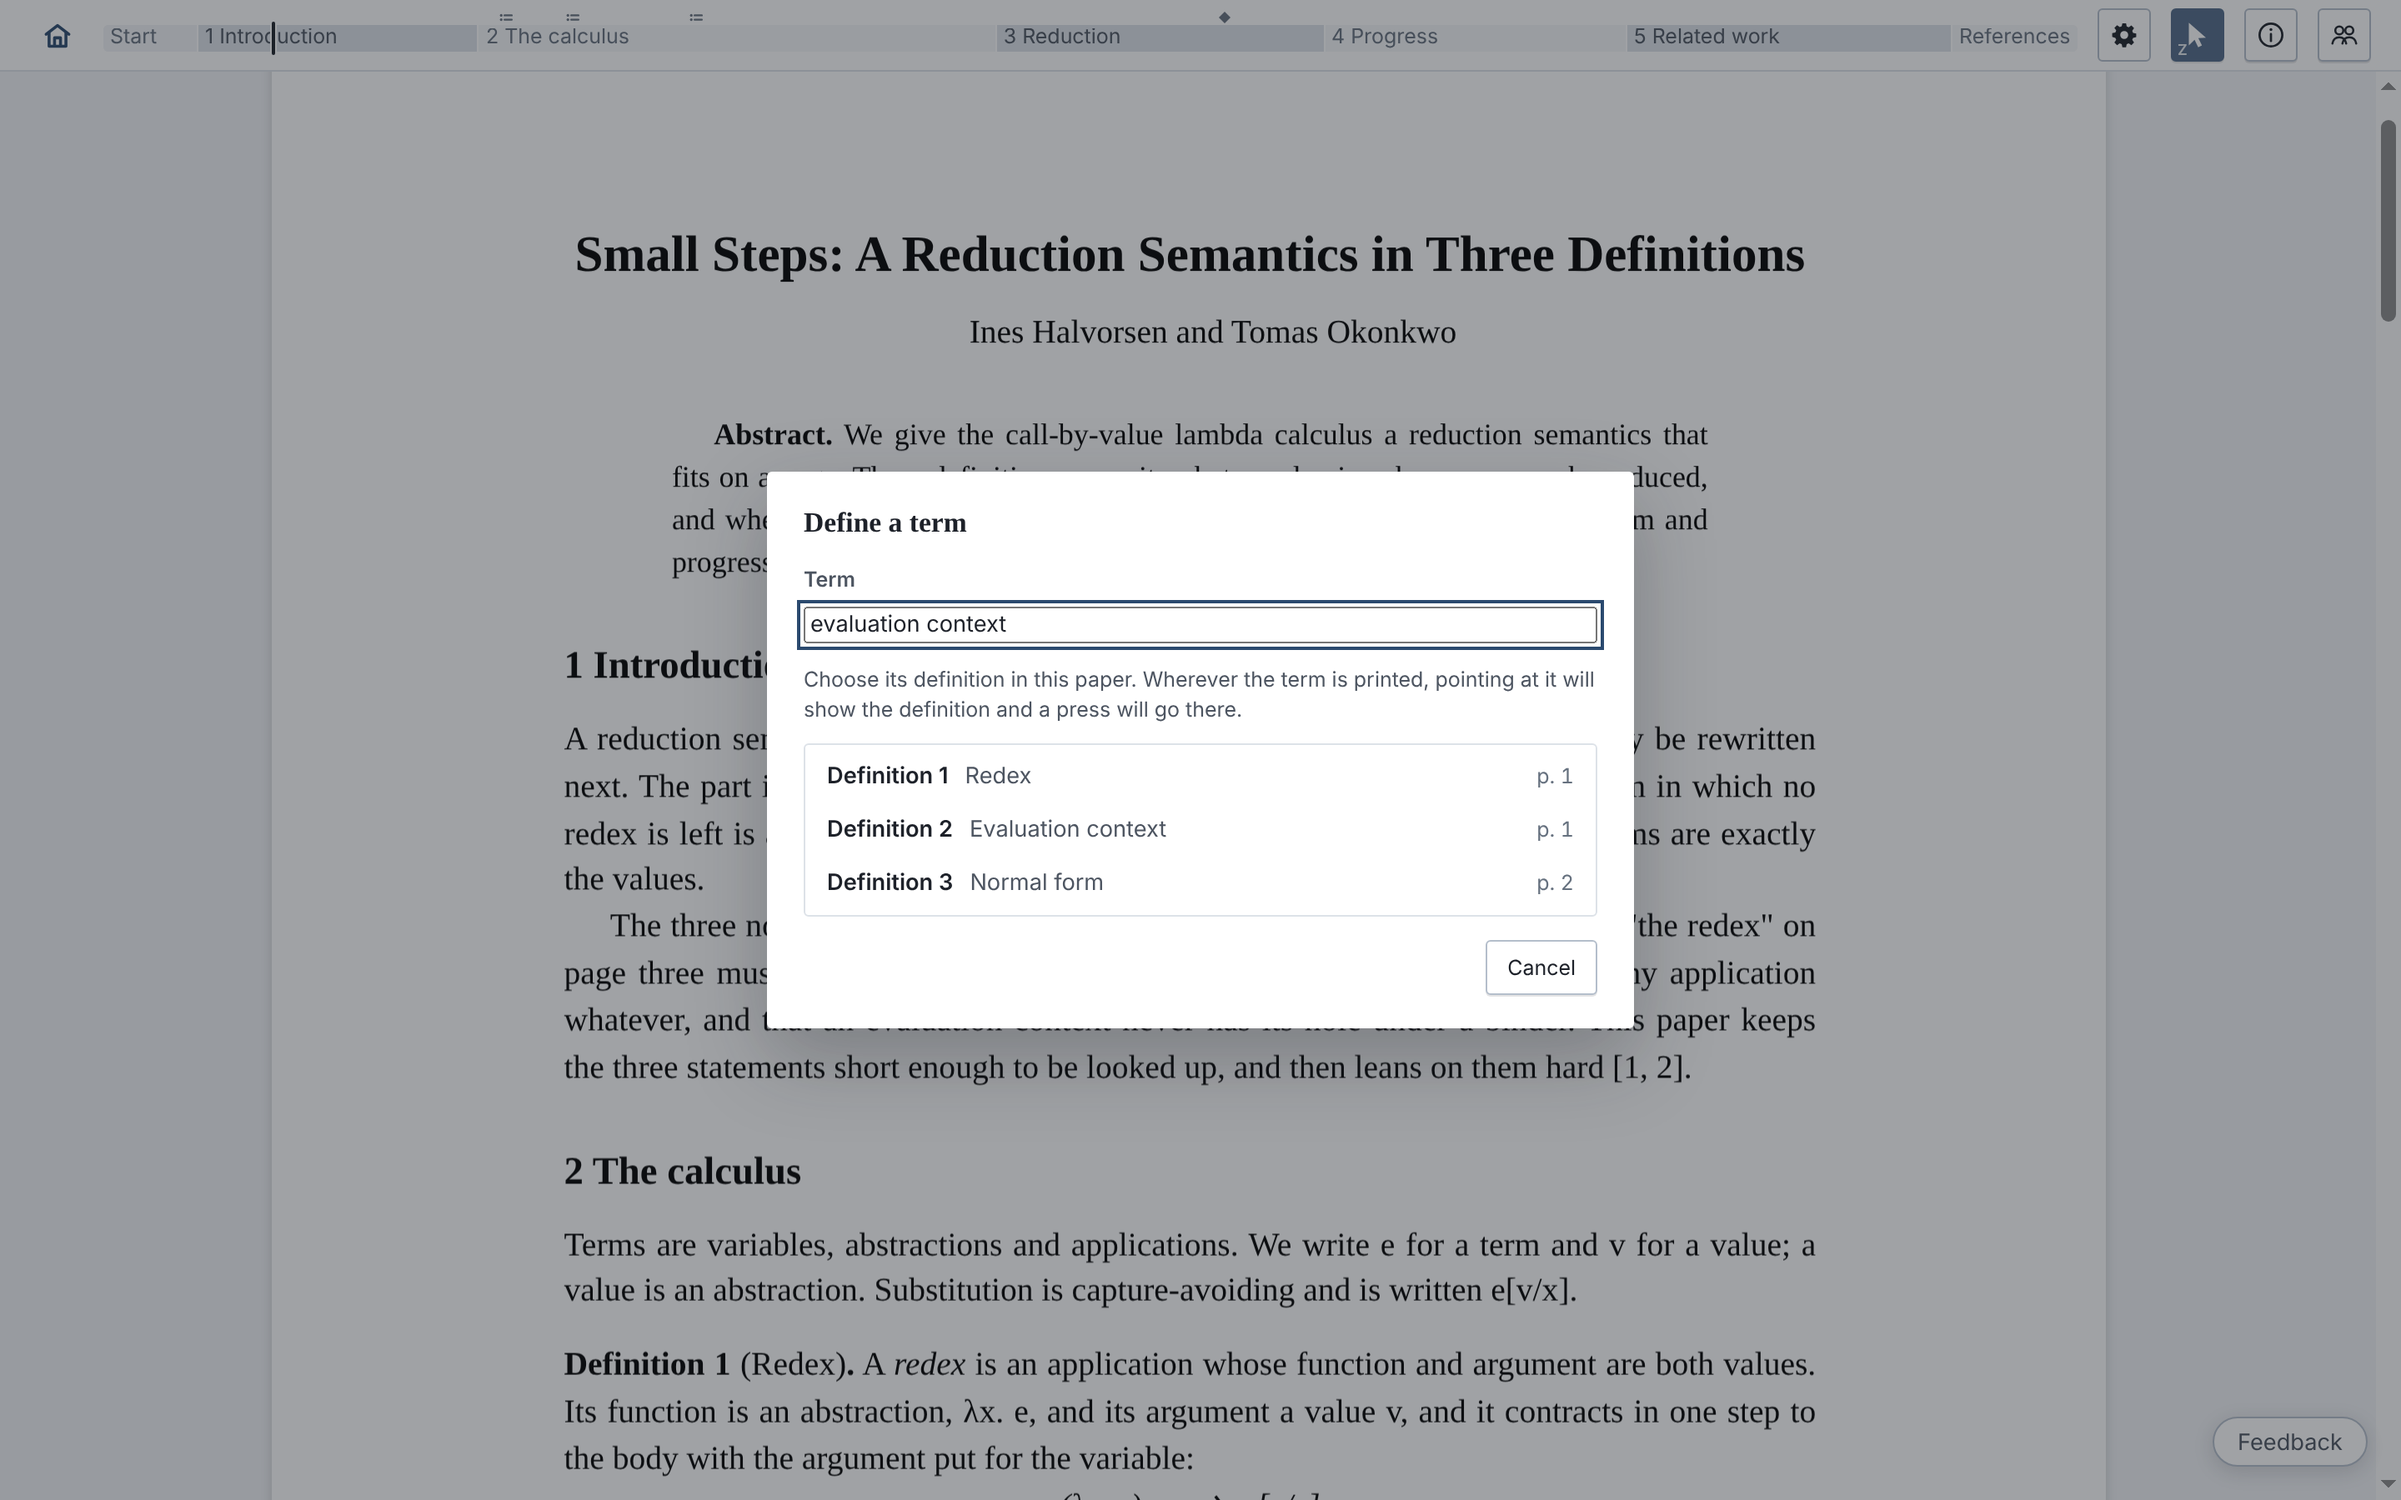
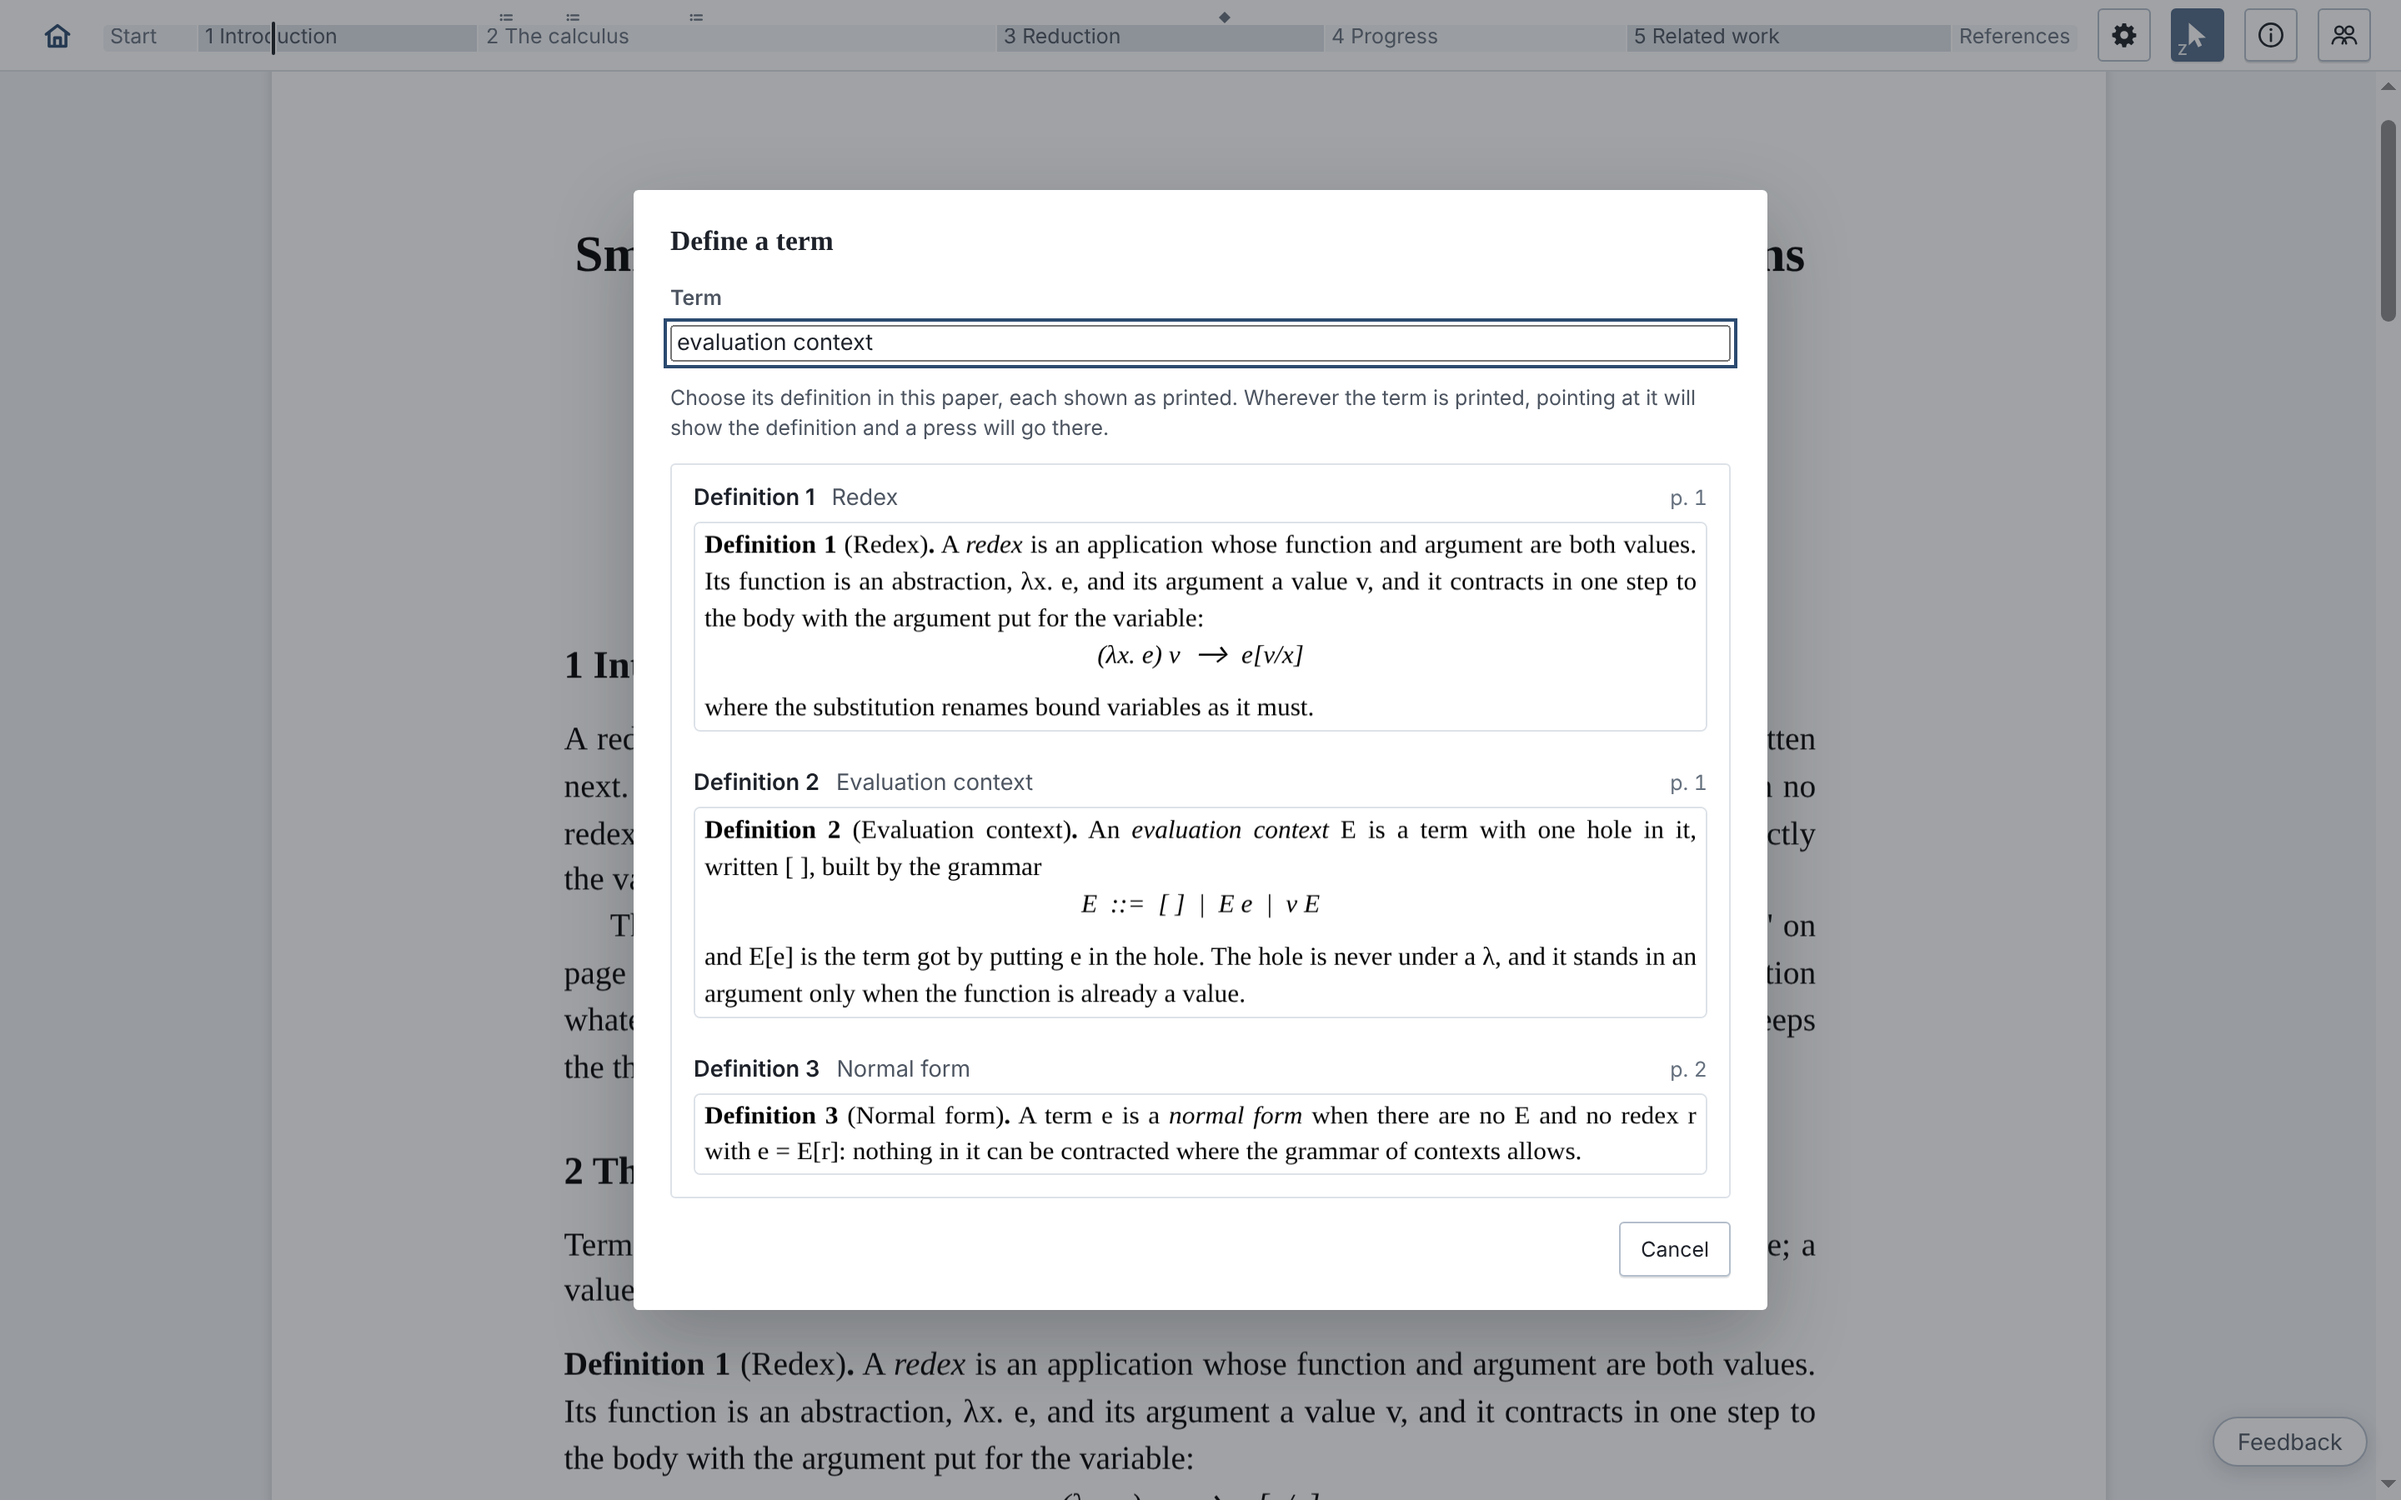
Define is a sign alone on the bar, and the chooser shows each definition as printed
The Define button on the selected-text bar is its sign, as its neighbours
are. The sheet that asks which definition a term's is draws each one, cut
from its page, under its name, so the reader reads it before choosing.

Claude-Session: https://claude.ai/code/session_01PQZzMS58jHomUHnndK5m6T

Changed region(s): [[0.25, 0.1244, 0.75, 0.9022]]

diff --git a/viewer/src/App.jsx b/viewer/src/App.jsx
@@ -56,6 +56,7 @@ import { citationOccurrences, placeAmong, readNamedReference, stillToLookUp } fr
 import { fitsFloat, floatScroll, floatZoom, sectionScroll, sectionZoom } from './floatView.js';
 import { telescopeFrame } from './telescope.js';
 import { definableTerm, definitionsIn, termKey, termSpot } from './definedTerms.js';
+import DefinitionPicture from './DefinitionPicture.jsx';
 import { ToolGlyph } from './glyphs';
 import { copySelectionSnapshot } from './selectionCopy.js';
 import { citationAt, superscriptCitationIndexes } from './citationText.js';
@@ -5348,8 +5349,7 @@ export default function App() {
                       : definableTerm(selectionPaint.text)
                         ? 'Define: choose this term’s definition in the paper'
                         : 'Select a word or a short phrase to define it',
-                    icon: <><ActionGlyph name="define" /><span>Define</span></>,
-                    className: 'worded',
+                    icon: <ActionGlyph name="define" />,
                     disabled: !definableTerm(selectionPaint.text),
                     onSelect: openDefine,
                   }] : []),
@@ -5452,7 +5452,7 @@ export default function App() {
               </label>
               {definitions.length ? (
                 <>
-                  <p className="define-ask" id="define-ask">Choose its definition in this paper. Wherever the term is printed, pointing at it will show the definition and a press will go there.</p>
+                  <p className="define-ask" id="define-ask">Choose its definition in this paper, each shown as printed. Wherever the term is printed, pointing at it will show the definition and a press will go there.</p>
                   <ul className="define-list" aria-labelledby="define-ask">
                     {definitions.map((definition) => (
                       <li key={definition.uuid}>
@@ -5462,9 +5462,13 @@ export default function App() {
                           disabled={defining.busy || !definableTerm(defining.term)}
                           onClick={() => defineTerm(definition)}
                         >
-                          <strong>{definition.label}</strong>
-                          <span className="define-about">{definition.title || ''}</span>
-                          <span className="define-page">p. {definition.page}</span>
+                          <span className="define-head">
+                            <strong>{definition.label}</strong>
+                            <span className="define-about">{definition.title || ''}</span>
+                            <span className="define-page">p. {definition.page}</span>
+                          </span>
+                          {/* The definition as printed, to read before choosing. */}
+                          <DefinitionPicture doc={doc} page={definition.page} box={definition.box} />
                         </button>
                       </li>
                     ))}

diff --git a/viewer/src/styles.js b/viewer/src/styles.js
@@ -1755,7 +1755,7 @@ body:has(.pages.with-margin) .feedback-button { right: auto; left: 20px; }
 
 /* Define: the selected words, and the paper's definitions to choose
    theirs from, each a row with its name, what it is about and its page. */
-.define-sheet { width: min(520px, 100%); }
+.define-sheet { width: min(680px, 100%); }
 .define-sheet .send-selection-field input { width: 100%; font-size: var(--fs-sm); }
 .define-ask {
   margin: 0 0 10px;
@@ -1765,8 +1765,8 @@ body:has(.pages.with-margin) .feedback-button { right: auto; left: 20px; }
 .define-list {
   display: flex;
   flex-direction: column;
-  gap: 2px;
-  max-height: min(46vh, 360px);
+  gap: 6px;
+  max-height: min(56vh, 520px);
   margin: 0 0 14px;
   padding: 4px;
   overflow-y: auto;
@@ -1777,11 +1777,12 @@ body:has(.pages.with-margin) .feedback-button { right: auto; left: 20px; }
 .sheet .define-choice,
 .sheet .define-choice:hover:not(:disabled) {
   display: flex;
-  align-items: baseline;
-  gap: 10px;
+  flex-direction: column;
+  align-items: stretch;
+  gap: 6px;
   width: 100%;
   min-height: 0;
-  padding: 7px 9px;
+  padding: 8px 9px 9px;
   border: 0;
   border-radius: 6px;
   background: none;
@@ -1793,7 +1794,21 @@ body:has(.pages.with-margin) .feedback-button { right: auto; left: 20px; }
 }
 .sheet .define-choice:hover:not(:disabled) { background: var(--accent-soft); }
 .define-choice:focus-visible { outline: 2px solid var(--focus); outline-offset: -2px; }
+.define-head { display: flex; align-items: baseline; gap: 10px; }
 .define-choice strong { flex: none; font-weight: 600; }
+/* The definition itself, cut from its page: paper, whatever the theme,
+   and dark with the pages when they are. */
+.define-picture {
+  display: block;
+  width: 100%;
+  overflow: hidden;
+  border: 1px solid var(--line);
+  border-radius: 4px;
+  background: #fff;
+}
+.define-picture canvas { display: block; width: 100%; height: 100%; }
+:root[data-pdf-pages='dark'] .define-picture canvas { filter: invert(0.9) hue-rotate(180deg); }
+:root[data-pdf-pages='dark'] .define-picture { background: #1a1a1a; }
 .define-about {
   flex: 1;
   min-width: 0;
@@ -1803,18 +1818,6 @@ body:has(.pages.with-margin) .feedback-button { right: auto; left: 20px; }
   white-space: nowrap;
 }
 .define-page { flex: none; color: var(--ink-faint); font-size: var(--fs-xs); font-variant-numeric: tabular-nums; }
-
-/* Define, on the selected-text bar: the one action there that is not a
-   reader's habit yet, so it says its name beside its sign. */
-.item-action.worded {
-  display: inline-flex;
-  align-items: center;
-  gap: 3px;
-  width: auto;
-  padding: 6px 11px 6px 7px;
-  border-radius: 999px;
-  font: 600 var(--fs-xs) var(--font-ui);
-}
 
 .send-selection-sheet { width: min(520px, 100%); }
 .send-selection-field {

diff --git a/viewer/src/DefinitionPicture.jsx b/viewer/src/DefinitionPicture.jsx
@@ -1,0 +1,58 @@
+import React, { useEffect, useRef, useState } from 'react';
+
+// A definition as the paper prints it, for the reader choosing a term's
+// definition to read before they choose: the definition's box cut from its
+// page and drawn across the row. Drawn when the row comes into view, so a
+// paper with fifty definitions draws the few being looked at.
+export default function DefinitionPicture({ doc, page, box }) {
+  const holderRef = useRef(null);
+  const canvasRef = useRef(null);
+  const [shape, setShape] = useState(null);
+
+  useEffect(() => {
+    const holder = holderRef.current;
+    if (!doc || !holder) return undefined;
+    let cancelled = false;
+    let task = null;
+    const draw = async () => {
+      const sheet = await doc.getPage(page);
+      if (cancelled) return;
+      const viewport = sheet.getViewport({ scale: 1 });
+      const width = box.w * viewport.width;
+      const height = box.h * viewport.height;
+      if (!cancelled) setShape(width / height);
+      const across = holder.clientWidth || 480;
+      const scale = (across / width) * Math.min(window.devicePixelRatio || 1, 2);
+      const canvas = canvasRef.current;
+      if (!canvas) return;
+      canvas.width = Math.max(1, Math.round(width * scale));
+      canvas.height = Math.max(1, Math.round(height * scale));
+      const context = canvas.getContext('2d');
+      context.fillStyle = '#fff';
+      context.fillRect(0, 0, canvas.width, canvas.height);
+      task = sheet.render({
+        canvasContext: context,
+        viewport,
+        transform: [scale, 0, 0, scale, -box.x * viewport.width * scale, -box.y * viewport.height * scale],
+      });
+      try { await task.promise; } catch { /* put away before it was drawn */ }
+    };
+    if (typeof IntersectionObserver !== 'function') {
+      draw();
+      return () => { cancelled = true; task?.cancel(); };
+    }
+    const seen = new IntersectionObserver((entries) => {
+      if (!entries.some((entry) => entry.isIntersecting)) return;
+      seen.disconnect();
+      draw();
+    }, { rootMargin: '200px' });
+    seen.observe(holder);
+    return () => { cancelled = true; seen.disconnect(); task?.cancel(); };
+  }, [doc, page, box.x, box.y, box.w, box.h]);
+
+  return (
+    <span className="define-picture" ref={holderRef} style={{ aspectRatio: shape ?? (box.w / box.h) * 0.77 }}>
+      <canvas ref={canvasRef} aria-hidden="true" />
+    </span>
+  );
+}

diff --git a/viewer/src/Navigator.jsx b/viewer/src/Navigator.jsx
@@ -816,7 +816,7 @@ function MarkChoices({ shown, onShown, hint, terms = null, onRemoveTerm, onTerm 
             <div className="navigator-section navigator-terms" role="group" aria-labelledby="navigator-section-terms">
               <span className="navigator-section-name" id="navigator-section-terms">Defined terms</span>
               {terms.length === 0 && (
-                <p className="navigator-terms-none">None yet. Select a word in the paper and press Define.</p>
+                <p className="navigator-terms-none">None yet. Select a word in the paper and press Define (≔).</p>
               )}
               {terms.map((term) => (
                 <div key={term.uuid} className="navigator-term">

diff --git a/USER_STORIES.md b/USER_STORIES.md
@@ -159,7 +159,7 @@ papers in, and I decide where they go.
 - **US-7.39** Each step brings the next marker to where the last one was: the page moves, **the card stays put** under my pointer, and the marker it now belongs to is lit. The sentence around it is on screen, because that sentence is what I came for.
 - **US-7.40** The steps run in **reading order** — down one column and on to the next — and past the last place they come round to the first, as a search does. The count says where I am, so coming round is never a surprise.
 - **US-7.41** A marker that cites several works ("[3–5]") steps through the places that cite **the work the card is showing**; choosing another work in its range changes which places those are. A place where the work is cited alongside others ("[2, 7, 9]") counts as a place it is cited, and one matched only by counting its number is marked as the guess it is (US-7.9).
-- **US-7.42** As a user reading a paper I keep, I can **define a term**: I select a word or a short phrase, press **Define**, and choose which of the paper's definitions is its. From then on, wherever the paper prints the term (its plural too, whatever its case), pointing at it shows me the definition under the line, whole and at its printed size, and a press takes me to it, with the way back offered. The terms I defined are mine alone and Papol keeps them, so they are there on the website and on the Mac; the viewer's gear lists them, each gone to by a press and removed by the cross beside it. Defining a term again points it at another definition.
+- **US-7.42** As a user reading a paper I keep, I can **define a term**: I select a word or a short phrase, press **Define** (≔), and choose which of the paper's definitions is its, each shown as printed so I can read it first. From then on, wherever the paper prints the term (its plural too, whatever its case), pointing at it shows me the definition under the line, whole and at its printed size, and a press takes me to it, with the way back offered. The terms I defined are mine alone and Papol keeps them, so they are there on the website and on the Mac; the viewer's gear lists them, each gone to by a press and removed by the cross beside it. Defining a term again points it at another definition.
 
 ## 7c. Sharing a reading
 
